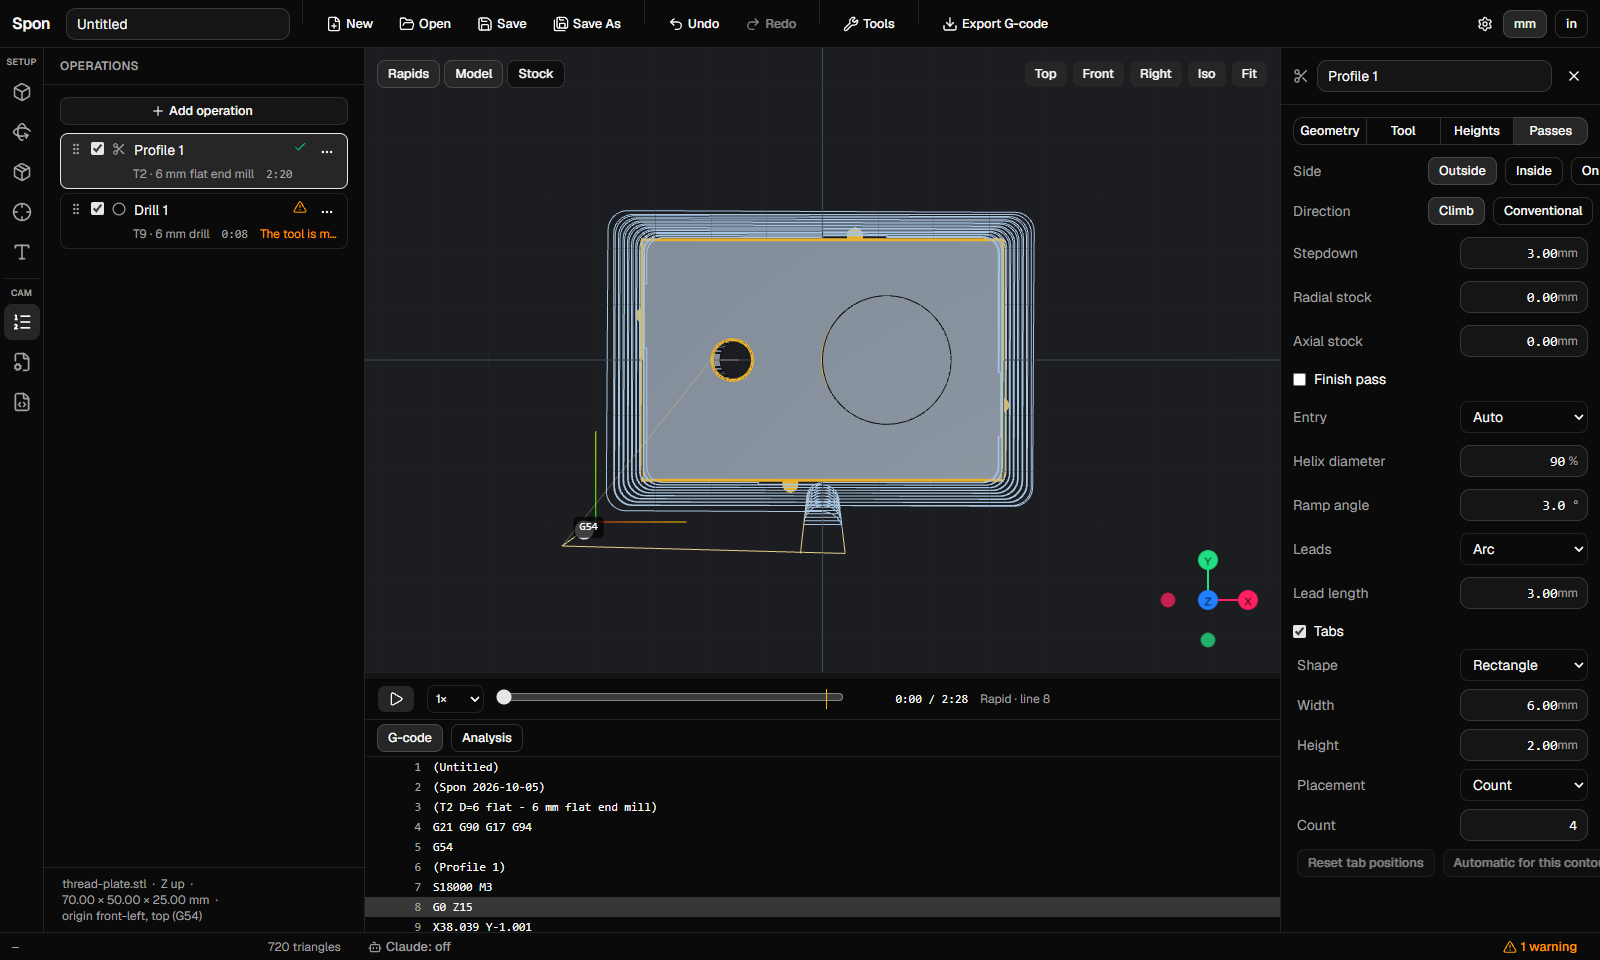
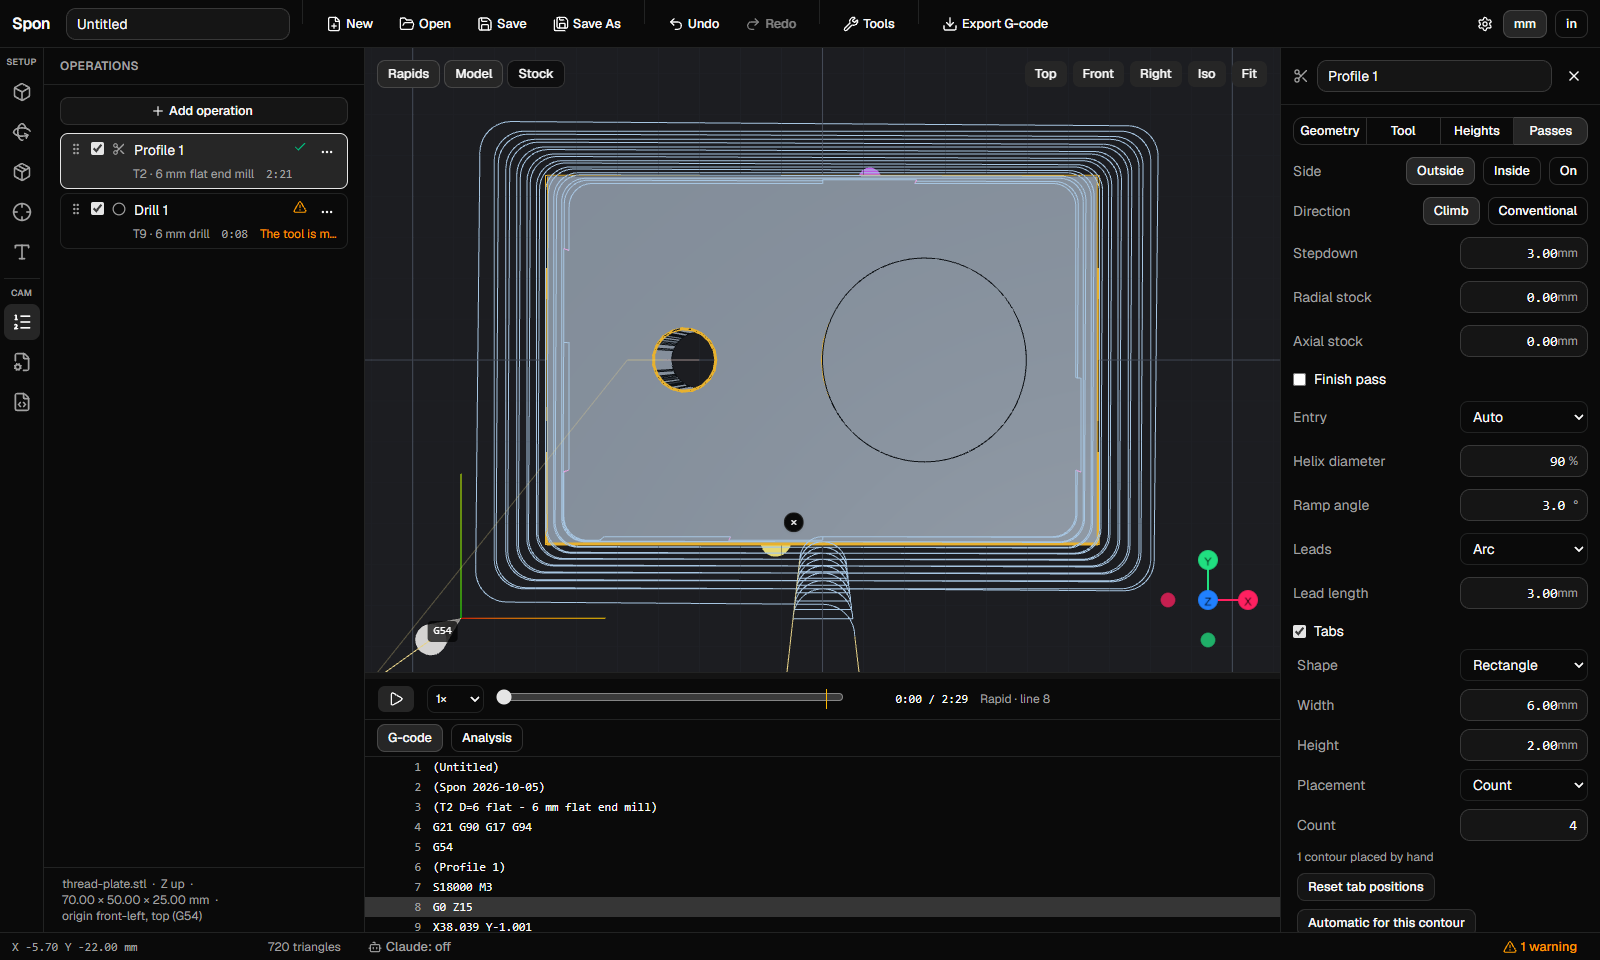
fix(web): inspector toggle rows and Tabs buttons fit; tab screenshot zoomed with a manual tab; docs tidy

diff --git a/packages/web/src/inspector/PassesTab.tsx b/packages/web/src/inspector/PassesTab.tsx
@@ -77,7 +77,7 @@ function ProfilePasses({ op }: { op: ProfileOp }) {
   return (
     <div className="space-y-3">
       {(kinds.closed || !kinds.open) && (
-      <label className="grid grid-cols-[1fr_10rem] items-center gap-2 text-sm">
+      <label className="grid grid-cols-[1fr_auto] items-center gap-2 text-sm">
         <span className="text-muted-foreground">Side</span>
         <ToggleGroup
           type="single" variant="outline" size="sm" data-testid="pass-side" value={op.side}
@@ -90,7 +90,7 @@ function ProfilePasses({ op }: { op: ProfileOp }) {
       </label>
       )}
       {kinds.open && (
-        <label className="grid grid-cols-[1fr_10rem] items-center gap-2 text-sm">
+        <label className="grid grid-cols-[1fr_auto] items-center gap-2 text-sm">
           <span className="text-muted-foreground">Open side</span>
           <ToggleGroup
             type="single" variant="outline" size="sm" data-testid="pass-open-side" value={op.openSide}
@@ -102,7 +102,7 @@ function ProfilePasses({ op }: { op: ProfileOp }) {
           </ToggleGroup>
         </label>
       )}
-      <label className="grid grid-cols-[1fr_10rem] items-center gap-2 text-sm">
+      <label className="grid grid-cols-[1fr_auto] items-center gap-2 text-sm">
         <span className="text-muted-foreground">Direction</span>
         <ToggleGroup
           type="single" variant="outline" size="sm" data-testid="pass-direction" value={op.direction}
@@ -157,7 +157,7 @@ function PocketPasses({ op }: { op: PocketOp }) {
 
   return (
     <div className="space-y-3">
-      <label className="grid grid-cols-[1fr_10rem] items-center gap-2 text-sm">
+      <label className="grid grid-cols-[1fr_auto] items-center gap-2 text-sm">
         <span className="text-muted-foreground">Direction</span>
         <ToggleGroup
           type="single" variant="outline" size="sm" data-testid="pass-direction" value={op.direction}
@@ -220,7 +220,7 @@ function DrillPasses({ op }: { op: DrillOp }) {
 }
 
 const directionField = (value: 'climb' | 'conventional', onChange: (v: 'climb' | 'conventional') => void) => (
-  <label className="grid grid-cols-[1fr_10rem] items-center gap-2 text-sm">
+  <label className="grid grid-cols-[1fr_auto] items-center gap-2 text-sm">
     <span className="text-muted-foreground">Direction</span>
     <ToggleGroup
       type="single" variant="outline" size="sm" data-testid="pass-direction" value={value}
@@ -237,7 +237,7 @@ function FacePasses({ op }: { op: FaceOp }) {
 
   return (
     <div className="space-y-3">
-      <label className="grid grid-cols-[1fr_10rem] items-center gap-2 text-sm">
+      <label className="grid grid-cols-[1fr_auto] items-center gap-2 text-sm">
         <span className="text-muted-foreground">Area</span>
         <ToggleGroup
           type="single" variant="outline" size="sm" data-testid="pass-face-area" value={op.area}
@@ -247,7 +247,7 @@ function FacePasses({ op }: { op: FaceOp }) {
           <ToggleGroupItem value="picked">Picked</ToggleGroupItem>
         </ToggleGroup>
       </label>
-      <label className="grid grid-cols-[1fr_10rem] items-center gap-2 text-sm">
+      <label className="grid grid-cols-[1fr_auto] items-center gap-2 text-sm">
         <span className="text-muted-foreground">Pattern</span>
         <ToggleGroup
           type="single" variant="outline" size="sm" data-testid="pass-face-pattern" value={op.pattern}
@@ -309,7 +309,7 @@ function ChamferPasses({ op }: { op: ChamferOp }) {
       )}
       {info.error && <p data-testid="chamfer-error" className="text-xs text-destructive">{info.error}</p>}
       {(kinds.closed || !kinds.open) && (
-        <label className="grid grid-cols-[1fr_10rem] items-center gap-2 text-sm">
+        <label className="grid grid-cols-[1fr_auto] items-center gap-2 text-sm">
           <span className="text-muted-foreground">Side</span>
           <ToggleGroup
             type="single" variant="outline" size="sm" data-testid="pass-side" value={op.side}
@@ -322,7 +322,7 @@ function ChamferPasses({ op }: { op: ChamferOp }) {
         </label>
       )}
       {kinds.open && (
-        <label className="grid grid-cols-[1fr_10rem] items-center gap-2 text-sm">
+        <label className="grid grid-cols-[1fr_auto] items-center gap-2 text-sm">
           <span className="text-muted-foreground">Open side</span>
           <ToggleGroup
             type="single" variant="outline" size="sm" data-testid="pass-open-side" value={op.openSide}
@@ -417,7 +417,7 @@ function ThreadPasses({ op }: { op: ThreadOp }) {
     </label>
   );
   const toggle = (testId: string, label: string, value: string, options: readonly [string, string][], onChange: (v: string) => void) => (
-    <label className="grid grid-cols-[1fr_10rem] items-center gap-2 text-sm">
+    <label className="grid grid-cols-[1fr_auto] items-center gap-2 text-sm">
       <span className="text-muted-foreground">{label}</span>
       <ToggleGroup type="single" variant="outline" size="sm" data-testid={testId} value={value} onValueChange={(v) => v && onChange(v)}>
         {options.map(([v, text]) => <ToggleGroupItem key={v} value={v}>{text}</ToggleGroupItem>)}

diff --git a/packages/web/screenshots/readme.spec.ts b/packages/web/screenshots/readme.spec.ts
@@ -40,13 +40,33 @@ async function pickTool(page: Page, id: string) {
 }
 
 /** Ends picking, closes the inspector unless `keepInspector`, fits the view and saves the page once the viewport has rendered. */
-async function shoot(page: Page, name: string, { keepInspector = false } = {}) {
-  await page.keyboard.press('Escape');
-  if (!keepInspector && (await page.getByTestId('inspector-close').count())) await page.getByTestId('inspector-close').click();
-  await page.getByRole('button', { name: 'Fit', exact: true }).click();
-  await page.mouse.move(0, 0);
+async function shoot(page: Page, name: string, { keepInspector = false, keepView = false } = {}) {
+  if (!keepView) {
+    await page.keyboard.press('Escape');
+    if (!keepInspector && (await page.getByTestId('inspector-close').count())) await page.getByTestId('inspector-close').click();
+    await page.getByRole('button', { name: 'Fit', exact: true }).click();
+    await page.mouse.move(0, 0);
+  }
   await page.waitForTimeout(1500);
   await page.screenshot({ path: path.join(OUT, `${name}.png`) });
+}
+
+/** Where a tab marker sits on screen once it stands still, and a click there (the markers take no pointer events). */
+async function clickMarker(page: Page, testId: string) {
+  const centre = async () => {
+    const box = await page.getByTestId(testId).boundingBox();
+    return box ? { x: box.x + box.width / 2, y: box.y + box.height / 2 } : null;
+  };
+  let at: { x: number; y: number } | null = null;
+  await expect(async () => {
+    const a = await centre();
+    await page.waitForTimeout(150);
+    at = await centre();
+    expect(a && at && Math.hypot(a.x - at.x, a.y - at.y) < 0.5).toBe(true);
+  }).toPass({ timeout: 10_000 });
+  await page.mouse.move(at!.x - 1, at!.y);
+  await page.mouse.move(at!.x, at!.y);
+  await page.mouse.click(at!.x, at!.y);
 }
 
 /** thread-plate.stl (a 60 × 40 plate with a Ø20 boss and a Ø6.8 hole): the outline profiled with tabs and the hole drilled. */
@@ -72,7 +92,18 @@ test('toolpaths: profile with tabs and drill on a model', async ({ page }) => {
   await page.getByTestId('toggle-stock').click(); // the stock box hides the tab ridges
   await page.getByRole('button', { name: 'Top', exact: true }).click();
   await page.getByTestId('inspector-tab-passes').click();
-  await shoot(page, 'toolpaths', { keepInspector: true });
+  await expect(page.getByTestId('tab-handle-0-0')).toBeVisible();
+  // zoom on the part
+  const view = (await page.locator('canvas').first().boundingBox())!;
+  await page.mouse.move(view.x + view.width / 2, view.y + view.height / 2);
+  for (let i = 0; i < 8; i++) await page.mouse.wheel(0, -300);
+  await page.waitForTimeout(1000);
+  // a click on the tab path adds a manual tab (that contour turns manual); a click on a tab selects it
+  await clickMarker(page, 'tab-path-0');
+  await expect(page.getByTestId('pass-tab-manual-count')).toBeVisible();
+  await clickMarker(page, 'tab-handle-0-0');
+  await expect(page.getByTestId('tab-remove')).toBeVisible();
+  await shoot(page, 'toolpaths', { keepView: true });
 });
 
 test('playback: the programs played back, with the analysis', async ({ page }) => {

diff --git a/packages/mcp/src/instructions.ts b/packages/mcp/src/instructions.ts
@@ -18,7 +18,7 @@ Operation parameters (add_operation params, or updateOperation patch)
 - heights: { clearance, retract, feed, top, bottom }, each { from, offset }. from is one of stockTop, stockBottom, modelTop, modelBottom, contour, face, origin, holeBottom, retract, feed, top.
 - profile: side (outside | inside | on, for closed contours), openSide (left | on | right, for open lines; seen along the line's direction), direction (climb | conventional), stepdown, stockRadial, finishPass, leads { mode, length }, tabs { enabled, shape, width, height, placement (count | spacing), count, spacing, manual }.
 - Open lines: profile them with openSide left or right to cut beside the line (the line is the part's edge). A line runs in the drawn direction of its first handle (open contours list from/to in describe_geometry); a trailing ! on any of an open line's handles (C3!) reverses the whole line, which swaps left and right.
-- tabs (profile, slot and pocket; on a pocket they are bridges that hold islands to the wall): turn them on for through cuts that would leave a part or island loose. addTab, removeTab, moveTab and resetTabs edit one contour; a contour with a manual entry is frozen (automatic placement no longer touches it). generate lists each operation's tabs per contour (refIndex, t along the contour, manual) and how many were skipped.
+- tabs (profile, slot and pocket; on a pocket they are bridges that hold islands to the wall): turn them on for through cuts that would leave a part or island loose. addTab, removeTab and moveTab edit one contour and need current (that contour's t list from generate (tabs[].t, [] if none)); resetTabs needs only opId (and refIndex for one contour); a contour with a manual entry is frozen (automatic placement no longer touches it). generate lists each operation's tabs per contour (refIndex, t along the contour, manual) and how many were skipped.
 - pocket: stepdown, stepoverPct, finishWalls, finishFloor, entry { mode: auto | helix | ramp | plunge }.
 - drill: cycle (drill | dwell | peck | chipbreak), peck, dwellSeconds, diameterFilter { min, max }.
 - face: area (stock | picked), stepoverPct, overlap, pattern (zigzag | spiral), angleDeg, oneWay, finishStepoverPct, stepdown, finishPass, direction (climb | conventional).

diff --git a/packages/web/src/inspector/TabsBlock.tsx b/packages/web/src/inspector/TabsBlock.tsx
@@ -69,7 +69,7 @@ export function TabsBlock({ op, islands, selectedTab = null }: {
               {`${manualCount} ${manualCount === 1 ? 'contour' : 'contours'} placed by hand`}
             </p>
           )}
-          <div className="flex gap-2">
+          <div className="flex flex-wrap gap-2">
             <Button variant="outline" size="sm" data-testid="pass-tab-reset" disabled={off || manualCount === 0} onClick={() => runCommand({ type: 'resetTabs', opId: op.id })}>
               Reset tab positions
             </Button>

diff --git a/README.md b/README.md
@@ -47,13 +47,12 @@ An MCP server lets Claude (or any MCP client) drive the same jobs: on `.spon` fi
   - V-carve closed outlines with the depth following the width and sharp corners.
   - A max depth with a linked clearing operation for wide letters.
 - **Thread milling:** internal and external straight threads (ISO metric, UNC/UNF or custom), single-point and multi-tooth thread mills, all hand/climb combinations, with cutter and hole checks.
-
-![An external M20 thread milled on a boss](docs/screenshots/threads.png)
-
 - **Text:** typed text in bundled or uploaded fonts (outline and single-line), on the stock or a model face, with multi-line, spacing, fit, arc, rotation and mirror; V-carve, engrave, pocket or profile it.
 - **Inlays:** Make inlay… turns a V-carve into an inlay pocket and writes a matching plug job (mirrored, V-carve plug + clearing) with inlay depth, start depth and glue gap; the toolpaths are computed so the plug fits the pocket, and the V-bit also cleans the floor corners and narrow gaps the clearing tool can't reach.
 - **Gouge check.** Toolpaths are checked against the model (chamfer depth and the facets of round walls are allowed for). A cut into it is an error that keeps the toolpath, shows red markers in the viewport and blocks export.
 - Geometry is picked in the viewport, or from a catalog of faces, edge loops, holes and drawing contours.
+
+![An external M20 thread milled on a boss](docs/screenshots/threads.png)
 
 **Tools**
 - A tool library in the browser, starting from a set of starter tools.
@@ -62,10 +61,9 @@ An MCP server lets Claude (or any MCP client) drive the same jobs: on `.spon` fi
 **G-code**
 - Post-processors for GRBL / grblHAL / FluidNC, LinuxCNC / Mach, and Fanuc / Haas, with one file per tool if wanted.
 - Generated programs are played back, timed and analysed in the viewport, together with any G-code you import.
+- Export refuses on errors. Warnings ask for confirmation.
 
 ![Playback of the generated programs with the analysis](docs/screenshots/playback.png)
-
-- Export refuses on errors. Warnings ask for confirmation.
 
 **Claude integration (MCP)**
 - `packages/mcp` is a local stdio MCP server with tools for jobs, import, setup, geometry, operations (profile, pocket, drill, face, chamfer and thread; tabs included, with `generate` listing each operation's tabs per contour), round holes and bosses with handles, a `list_threads` table, generation, a PNG preview, export and the tool library.

diff --git a/packages/mcp/README.md b/packages/mcp/README.md
@@ -41,7 +41,7 @@ Slots: `describe_geometry` lists recognised slots as `S1…` (`filter: "slots"`)
 centrelines (each line end is the centre of a round end; set `width`). `strategy` is `auto`, `toolWidth`, `wider` or `trochoidal`. A square-ended slot needs
 `squareEnds` (`inside`, `endWall` or `dogbone`); `export_gcode` refuses until it is set, and `endWall`/`dogbone` overcuts give a `slot-overcut` warning.
 
-Tabs: `updateOperation` with a `tabs` patch turns tabs on for profile, slot and pocket operations (on a pocket they are bridges that hold islands to the wall); `addTab`, `removeTab`, `moveTab` and `resetTabs` edit one contour, and a contour with manual tabs is frozen. `generate` lists each operation's `tabs` per contour (`refIndex`, `t` along the contour, `manual`) and `tabsSkipped`.
+Tabs: `updateOperation` with a `tabs` patch turns tabs on for profile, slot and pocket operations (on a pocket they are bridges that hold islands to the wall); `addTab`, `removeTab` and `moveTab` edit one contour and need `current` (that contour's `t` list from `generate`, `[]` if none), `resetTabs` takes an `opId` and optionally a `refIndex`, and a contour with manual tabs is frozen. `generate` lists each operation's `tabs` per contour (`refIndex`, `t` along the contour, `manual`) and `tabsSkipped`.
 
 Threads: `add_operation` with `type: "thread"` and a thread mill (`list_tools`) mills an internal thread in a round hole (`H1…`, `kind: "internal"`, the default) or an external thread on a round boss (`B1…` from `describe_geometry`, `kind: "external"`). `list_threads` lists the ISO coarse and fine, UNC and UNF table; `params.thread` takes `{ standard, size }` for a table row or a `custom` thread with `majorDiameter`, `pitch` and `angle`. The length defaults to the picked hole's depth or boss's height.
 
